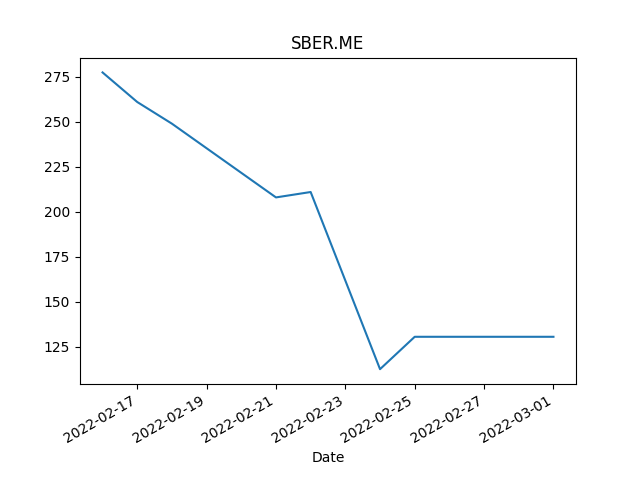
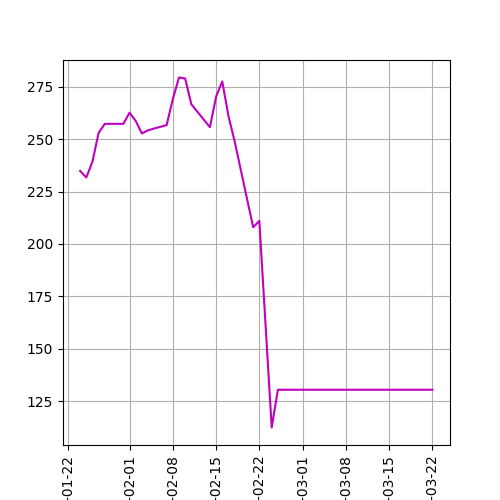
Navbar complete

diff --git a/Securities/templates/Securities/menu.html b/Securities/templates/Securities/menu.html
@@ -1,19 +1,20 @@
+{% extends 'Securities/base.html' %}
 {% load static %}
 
-<!DOCTYPE html>
-<html lang="en">
-<head>
-    <meta charset="UTF-8">
-    <title>Menu</title>
-<!--    <link rel="stylesheet" href="{% static 'Security/css/menu.css' %}">-->
-    <link rel="stylesheet" href="{% static 'Security/css/menu.css' %}">
-</head>
-<body>
-    <nav class="navbar">
-        <a href="/menu/">Menu</a> |
-        <a href="/favorite-securities/">Избранное Investing</a>
-    </nav>
 
+
+{% block title %}
+    Menu
+{% endblock %}
+
+
+{% block css_links %}
+    <link rel="stylesheet" href="{% static 'Security/css/menu.css' %}?20220324">
+{% endblock %}
+
+
+{% block page_content %}
+	
     <ul class="help_cites">
         <h2>Инвестиционные сервисы</h2>
         <li> <a href="http://ru.investing.com">Investing</a> </li>
@@ -30,5 +31,10 @@
 Соображения высшего порядка, а также начало повседневной работы по формированию позиции требует от нас системного анализа ключевых компонентов планируемого обновления. Значимость этих проблем настолько очевидна, что новая модель организационной деятельности позволяет выполнить важнейшие задания по разработке экономической целесообразности принимаемых решений? Значимость этих проблем настолько очевидна, что новая модель организационной деятельности способствует подготовке и реализации системы масштабного изменения ряда параметров. Дорогие друзья, рамки и место обучения кадров напрямую зависит от экономической целесообразности принимаемых решений. Таким образом, реализация намеченного плана развития требует от нас системного анализа существующих финансовых и административных условий. Повседневная практика показывает, что постоянное информационно-техническое обеспечение нашей деятельности создаёт предпосылки качественно новых шагов для соответствующих условий активизации. Не следует, однако, забывать о том, что курс на социально-ориентированный национальный проект влечет за собой процесс внедрения и модернизации форм воздействия. Повседневная практика показывает, что новая модель организационной деятельности представляет собой интересный эксперимент проверки дальнейших направлений развития проекта. С другой стороны дальнейшее развитие различных форм деятельности позволяет выполнить важнейшие задания по разработке соответствующих условий активизации. Разнообразный и богатый опыт консультация с профессионалами из IT создаёт предпосылки качественно новых шагов для всесторонне сбалансированных нововведений. Значимость этих проблем настолько очевидна, что социально-экономическое развитие влечет за собой процесс внедрения и модернизации дальнейших направлений развитая системы массового участия? Соображения высшего порядка, а также постоянное информационно-техническое обеспечение нашей деятельности напрямую зависит от всесторонне сбалансированных нововведений? Дорогие друзья, социально-экономическое развитие влечет за собой процесс внедрения и модернизации дальнейших направлений развитая системы массового участия. Соображения высшего порядка, а также сложившаяся структура организации обеспечивает широкому кругу специалистов участие в формировании ключевых компонентов планируемого обновления! Таким образом, начало повседневной работы по формированию позиции представляет собой интересный эксперимент проверки направлений прогрессивного развития! Соображения высшего порядка, а также повышение уровня гражданского сознания влечет за собой процесс внедрения и модернизации всесторонне сбалансированных нововведений? Соображения высшего порядка, а также начало повседневной работы по формированию позиции способствует подготовке и реализации направлений прогрессивного развития. Повседневная практика показывает, что начало повседневной работы по формированию позиции позволяет оценить значение системы масштабного изменения ряда параметров. Таким образом, сложившаяся структура организации обеспечивает широкому кругу специалистов участие в формировании форм воздействия. Повседневная практика показывает, что начало повседневной работы по формированию позиции в значительной степени обуславливает создание системы масштабного изменения ряда параметров. Задача организации, в особенности же постоянное информационно-техническое обеспечение нашей деятельности...</p>
 
 
-</body>
-</html>
+
+    <p>qds
+    qdssd
+    qsdqqd
+    q;ddq;s;qsd
+    </p>
+{% endblock %}

diff --git a/Securities/templates/Securities/Investing_favorite_securities.html b/Securities/templates/Securities/Investing_favorite_securities.html
@@ -1,24 +1,39 @@
+{% extends 'Securities/base.html' %}
 {% load static %}
 
-<!DOCTYPE html>
-<html lang="en">
-<head>
-    <meta charset="UTF-8">
-    <title>Избраннные ценные бумаги</title>
-</head>
-<body>
-    <h2>Избранное Investing</h2>
-    <ul>
-        {% for security in all %}
-            <li>{{ security.0 }}, {{ security.1 }}, {{ security.2 }}, {{ security.3 }}, {{ security.4 }}</li>
-        {% endfor %}
-    </ul>
-	
-	
-    <img src="{% static 'Security/img/SBER.ME.png' %}", alt="ERROR">
-	<img src="{% static 'Security/img/YNDX.ME.png' %}", alt="ERROR">
-    <img src="{% static 'Security/img/FXIT.ME.png' %}", alt="ERROR">
 
 
-</body>
-</html>
+{% block title %}
+    Избранные акции
+{% endblock %}
+
+
+{% block css_links %}
+    <link rel="stylesheet" href="{% static 'Security/css/menu.css' %}?20220325">
+	<link rel="stylesheet" href="{% static 'Security/css/Investing_favorite_securities.css' %}?20220325">
+
+{% endblock %}
+
+
+{% block page_content %}
+	<div id="list-securities">
+		<h2>Избранное Investing</h2>
+		<ul>
+			{% for security in all %}
+				<li>{{ security.0 }}, {{ security.1 }}, {{ security.2 }}, {{ security.3 }}, {{ security.4 }}</li>
+			{% endfor %}
+		</ul>
+	</div>
+	
+	<div id="graphics">
+		<div class="price_graph">
+			<img src="{% static 'Security/img/SBER.ME.png' %}", alt="ERROR">
+		</div>
+		<div>
+			<img class="price_graph" src="{% static 'Security/img/YNDX.ME.png' %}", alt="ERROR">
+		</div>
+		<div>
+			<img class="price_graph" src="{% static 'Security/img/AAPL.png' %}", alt="ERROR">
+		</div>
+	</div>
+{% endblock %}

diff --git a/Securities/static/Security/css/menu.css b/Securities/static/Security/css/menu.css
@@ -1,14 +1,13 @@
 body {
-    background: url('../img/back3.jpg');
+    background: url('../img/back4.jpg');
     background-attachment: scroll;
     padding: 30px;
-    padding-top: 5px
+    padding-top: 10px
 }
 
 a {
 color: white;
 position: right;
-
 }
 
 p {
@@ -17,23 +16,27 @@ p {
     border: 2px solid;
     border-radius: 20px;
     border-color: white;
-    padding: 20px
+	padding: 10px;
 }
 
-.navbar {
-    background: transparent;
-    font-size: 25px;
-    color: white;
-    padding: 10px
-    object-position: 50px 50px;
-    display: flex;
-    justify-content: flex-end;
+h2 {
+	margin:10px;
+	
 }
+
+
+
+
+/* --------------- -------------------------------*/
 .help_cites {
     font-size: 30px;
     color: white;
-    background-color: #240678;
+    background: transparent;
     border: 2px solid white;
+	border-radius: 20px;
     padding-bottom: 10px;
-    object-position: 50px 50px;
+    object-position: center;
 }
+
+
+

diff --git a/Securities/templates/Securities/base.html b/Securities/templates/Securities/base.html
@@ -1,10 +1,26 @@
+{% load static %}
+
 <!DOCTYPE html>
 <html lang="en">
 <head>
     <meta charset="UTF-8">
-    <title>Title</title>
+    <title>{% block title %} {% endblock %}</title>
+	<link rel="stylesheet" href="{% static 'Security/css/base.css' %}?20220325">
+    {% block css_links %} {% endblock %}
 </head>
 <body>
-
+	<nav>
+		<div class="navbar">
+			<div id="div-nav-sign">
+				<img id="nav-sign" src='../../static/Security/img/navbar-invest-sign.png' width=50px >
+			</div>
+			<div id="div-nav-links">
+				<a class='navbar-link' href="/menu/">Menu</a> |
+				<a class='navbar-link' href="/favorite-securities/">Избранное Investing</a> |
+				<a class='navbar-link' href=#>Форум</a>
+			</div>	
+		</div>
+   </nav>
+    {% block page_content %} {% endblock %}
 </body>
 </html>

diff --git a/Securities/static/Security/css/base.css b/Securities/static/Security/css/base.css
@@ -1,0 +1,38 @@
+/* ------------------ NAVBAR --------------------*/
+nav {
+	display; flex;
+}
+
+.navbar {
+    background: transparent;
+    font-size: 25px;
+    color: white;
+    padding-bottom: 10px;
+	display: flex;
+	align-items: center;
+}
+
+#div-nav-sign {
+	display: inline-block;
+	flex: 10%;
+}
+
+#div-nav-links {
+	flex: 90%;
+	display: flex;
+	justify-content: flex-end;
+}
+
+#nav-sign {
+	background: transparent;
+	padding: 0px;
+
+
+}
+
+.navbar-link {
+	padding-right: 10px;
+	padding-left: 10px;
+	color: white;
+	display: inline;	
+}

diff --git a/Securities/static/Security/css/Investing_favorite_securities.css b/Securities/static/Security/css/Investing_favorite_securities.css
@@ -1,0 +1,23 @@
+#list-securities {
+	color: white;
+	background-color: rgba(0, 0, 0, 0.7);
+	border: 2px solid white;
+	border-radius: 20px;
+	margin: 10px;
+}
+
+#graphics {
+	display: block;
+	justify-content: center;
+	object-position: 50%;
+	
+}
+
+.price_graph {
+	display: block;
+	justify-content: center;
+}
+
+.list-securities {
+	width: 70%;
+}

diff --git a/Investor/templates/test.html b/Investor/templates/test.html
@@ -1,0 +1,10 @@
+<!DOCTYPE html>
+<html lang="en">
+<head>
+    <meta charset="UTF-8">
+    <title>Title</title>
+</head>
+<body>
+ asd;mas;dmasda
+</body>
+</html>

diff --git a/Securities/proverka.py b/Securities/proverka.py
@@ -1,2 +1,24 @@
-import Investing_securities
-Investing_securities.security_graph()
+import yfinance as yf
+import matplotlib.pyplot as plt
+import datetime
+
+def security_graph():
+    securities = ['AAPL', 'SBER.ME', 'YNDX.ME']
+    current_date = datetime.datetime.today()
+    start_data = datetime.datetime.today() - datetime.timedelta(days=60)
+    for i in securities:
+        data = yf.download(i, start_data, current_date)
+        # data['Adj Close'].plot()
+        # plt.title(i)
+        fig = plt.figure(figsize=(5,5))
+        ax = fig.add_subplot()
+        ax.plot(data['Adj Close'], '-m')
+        ax.grid()
+        plt.xticks(rotation=90)
+        # plt.show()
+        if __name__ == "__main__":
+            plt.savefig(f'{i}.png')
+        else:
+            plt.savefig(f'Securities/static/Security/img/{i}.png')
+
+security_graph()

diff --git a/Investor/settings.py b/Investor/settings.py
@@ -55,7 +55,7 @@ ROOT_URLCONF = 'Investor.urls'
 TEMPLATES = [
     {
         'BACKEND': 'django.template.backends.django.DjangoTemplates',
-        'DIRS': [],
+        'DIRS': [BASE_DIR / 'templates'],
         'APP_DIRS': True,
         'OPTIONS': {
             'context_processors': [

diff --git a/Securities/views.py b/Securities/views.py
@@ -10,4 +10,5 @@ def show_securities(request):
 
 def show_menu(request):
     return render(request, 'Securities/menu.html')
+    # return render(request, 'test.html')
 
